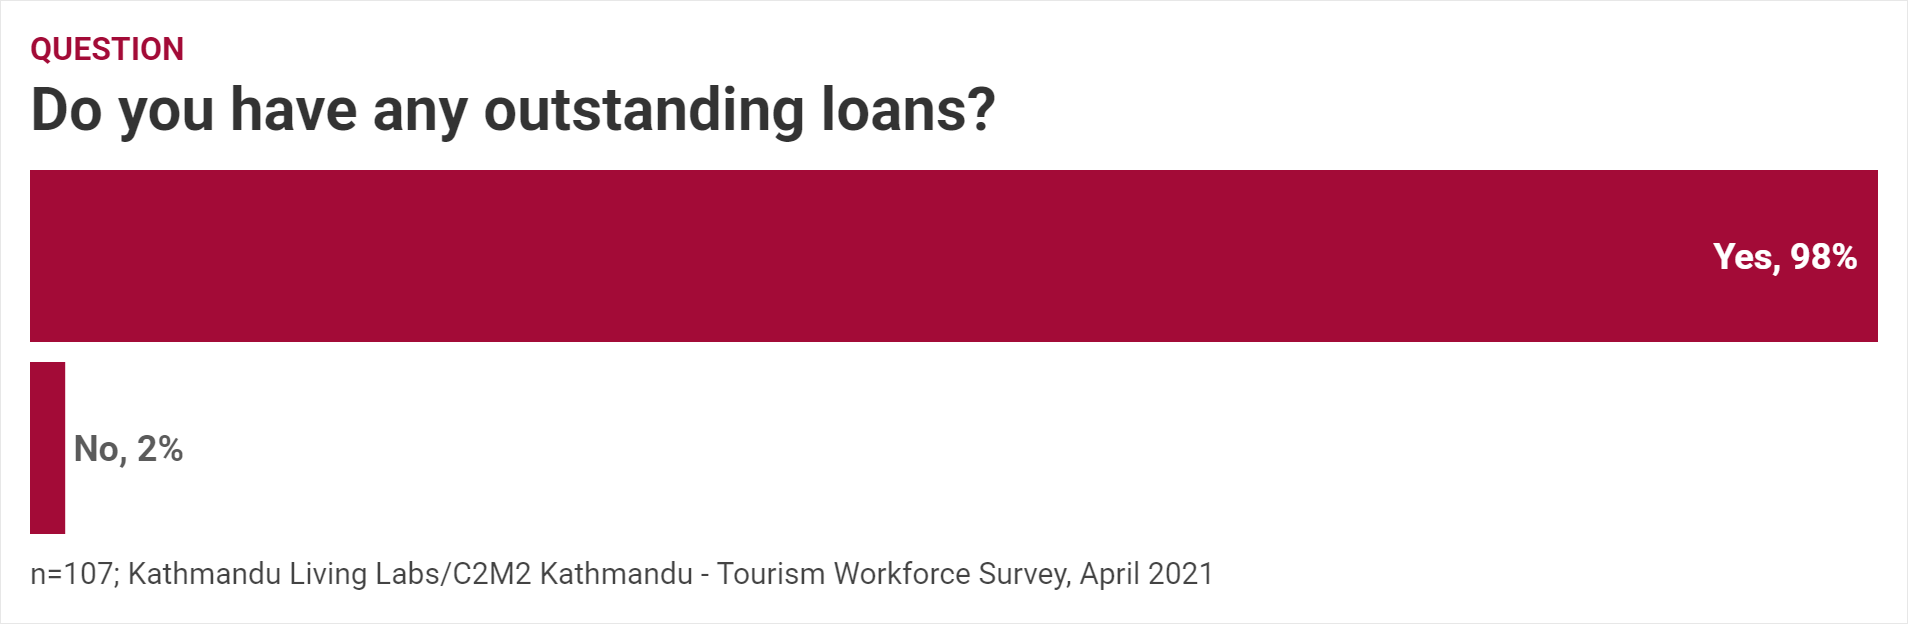
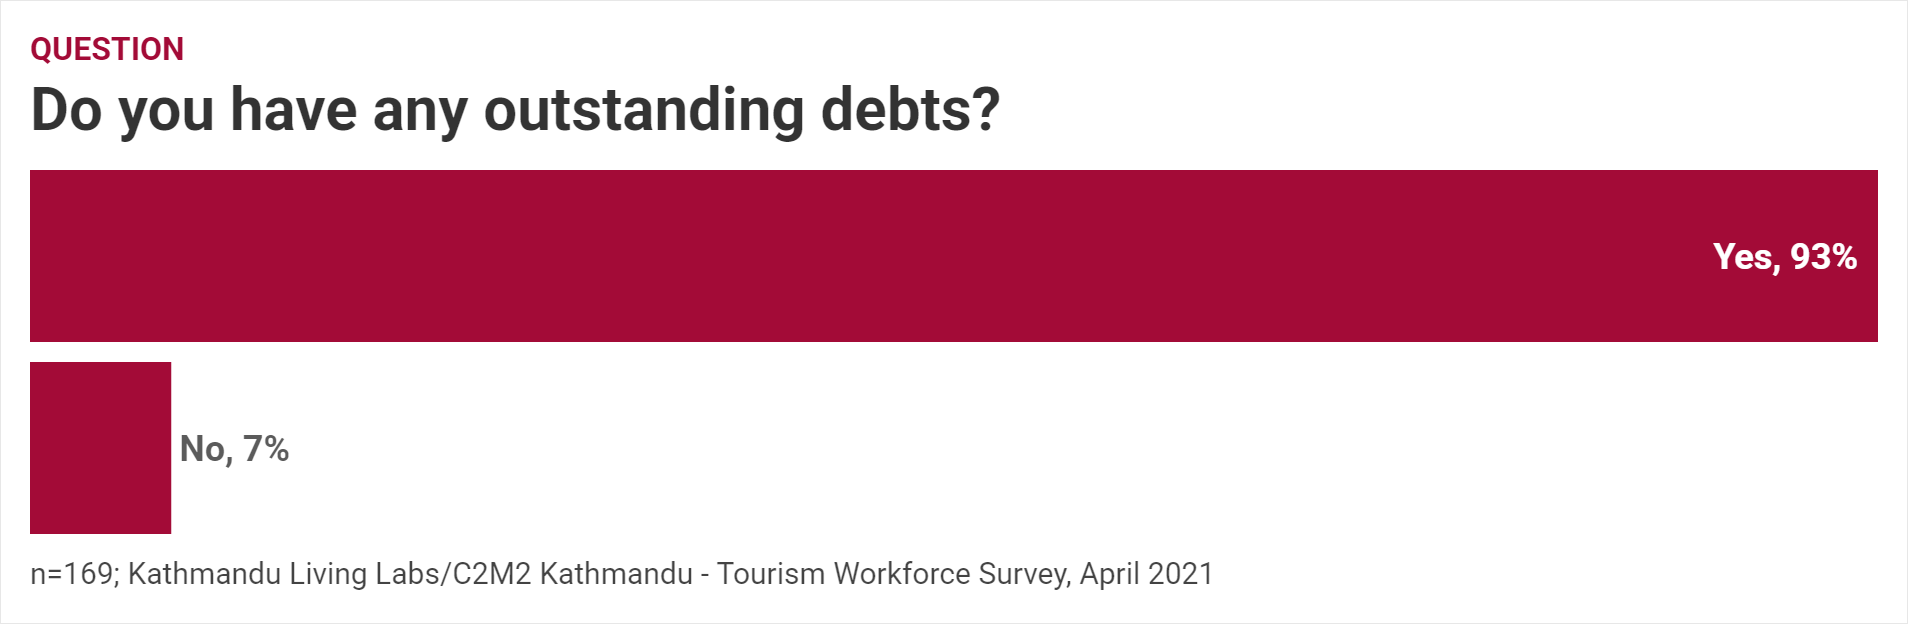
Updated data and numbers in economic analyis

Changed region(s): [[0.0309, 0.5785, 0.1546, 0.8526], [0.4329, 0.1218, 0.5257, 0.2131], [0.0309, 0.883, 0.0618, 0.9439]]

diff --git a/docs/articles/21/economic-impact.html b/docs/articles/21/economic-impact.html
@@ -6,7 +6,7 @@
   <meta name="viewport" content="width=device-width, initial-scale=1">
 
   <title>COVID 19 and its impact on Nepalese Tourism</title>
-  <meta name="description" content="This document is at a very early stage and is undergoing lots of changes. At this stage, data and text shown are not verified and therefore cannot be trusted...">
+  <meta name="description" content="This document is at a very early stage and is undergoing lots of changes. Data and text below have not been verified and therefore cannot be trusted.In this ...">
 
   <!-- Google Fonts loaded here depending on setting in _data/options.yml true loads font, blank does not-->
   
@@ -87,24 +87,36 @@
 <p class="subtitle">April 27, 2021</p>
 
 <div class="post">
-    <p><span style="color:red;">This document is at a very early stage and is undergoing lots of changes. At this stage, data and text shown are not verified and therefore cannot be trusted.</span></p>
+    <p><span style="color:red;">This document is at a very early stage and is undergoing lots of changes. Data and text below have not been verified and therefore cannot be trusted.</span></p>
 
-<p>In this section, we look at the economic impact that the Covid-19 pandemic has had on the Nepali tourism workforce. Insights shown below have been derived from the responses of 107 participants who took part in the C2M2 Workforce survey.</p>
+<p>In this section, we look at the economic impact that the Covid-19 pandemic has had on the Nepali tourism workforce. Insights shown below have been derived from the responses of 169 participants who took part in the C2M2 Workforce survey.</p>
 
-<h3 id="still-looking-for-jobs">STILL LOOKING FOR JOBS</h3>
-<p>Around 90% of our respndents reported losing their job at least once during the pandemic. While a very small proportion of these workers have been successful in gaining employment, a sizable majority are still without jobs and currently looking for economic opportunities.</p>
+<h3 id="still-searching">STILL SEARCHING</h3>
+<p>More than 80% of our respndents reported losing their job at least once during the pandemic. While a little more than one-sixth of our workers have been successful in gaining employment, a sizable majority (65%) are still without jobs and currently looking for economic opportunities (see graph below).</p>
 
 <figure><img src="/kathmandu-interim-report/assets/img/charts/LostJobsSplit.png" /><figcaption class="maincolumn-figure">Note: The group &#8220;working now&#8221; <strong>also includes</strong> those who are presently working in sectors other than tourism, but are interested in re-entering the tourism sector.</figcaption></figure>
 
+<!-- ### income > vocation
+
+<figure><img src='/kathmandu-interim-report/assets/img/charts/PresentlyEmployedOccupationSplit.png'/><figcaption class='maincolumn-figure'></figcaption></figure> -->
+
 <h3 id="pay-cuts-the-new-normal">PAY CUTS: THE New NORMAL?</h3>
-<p>Even with those lucky few people who have managed to hold on to their jobs (10%, see chart below) throughout the pandemic, living with a pay cut has become a harsh reality.</p>
 
-<figure><img src="/kathmandu-interim-report/assets/img/charts/StayedEmployedSplit.png" /><figcaption class="maincolumn-figure">It is worth mentioning at this point that most of our respondents work as trekking and/or mountain guides. This should explain why most were not able to hold on to their jobs, as most guides are hired by tourists. See <a>survey demographics</a></figcaption></figure>
+<p>What’s worrying is that nearly 60% of folks who are presently employed work at reduced income levels.</p>
+<figure><img src="/kathmandu-interim-report/assets/img/charts/PresentlyEmployedSalaryCutSplit.png" /><figcaption class="maincolumn-figure"></figcaption></figure>
 
-<p>Around 91% of our respondents reported that earnings haven’t gotten back to pre-covid levels. To make matters worse, 80% of our respondents reported not seeing their earnings return to pre-covid levels for more than a year now (see graph below).</p>
+<p>It’s also worth exploring how income losses vary between a) those who managed retain their employment status throughout the pandemic vs. b) those who lost their jobs once, but managed to find employment again. For reference, here’s what the split looks like graphically.</p>
 
-<figure><img src="/kathmandu-interim-report/assets/img/charts/LastDateFullSalaryDist2.png" /><figcaption class="maincolumn-figure">Note: This charts contains responses from <strong>all</strong> of our respondents.</figcaption></figure>
+<figure><img src="/kathmandu-interim-report/assets/img/charts/PresentlyEmployedEmplStatusSplit.png" /><figcaption class="maincolumn-figure"></figcaption></figure>
 
+<p>Looks like a fifty-fifty split. Now, on to income losses. It appears, pay cuts are more common for employees who valued job security. Only 3% who remained employed all through the pandemic have managed to retain their pre-pandemic incomes.</p>
+
+<figure><img src="/kathmandu-interim-report/assets/img/charts/StayedEmployedSplit.png" /><figcaption class="maincolumn-figure"></figcaption></figure>
+
+<h4 id="a-year-of-reduced-income">A Year of reduced income</h4>
+<p>In total, 63% of our workers who are currently employed have reported not seeing their earnings return to pre-covid levels for more than a year now (see graph below).</p>
+
+<figure><img src="/kathmandu-interim-report/assets/img/charts/LastDateFullSalaryDist2.png" /><figcaption class="maincolumn-figure">Note: This chart contains responses from <strong>only those respondents who are presently employed</strong>. <br /> <br /> To be intepreted as: 63% of workers who are presently employed have not seen their salaries return to pre-covid levels since &#8220;Before March 2020&#8221;</figcaption></figure>
 <p>It appears the situation is going to get even more difficult with the second wave approaching.</p>
 
 <h3 id="dealing-with-the-financial-impact">Dealing with the financial impact</h3>
@@ -119,25 +131,27 @@
 
 <h4 id="selling-assets-household-items-are-the-first-to-go">SELLING ASSETS: Household items are the first to go</h4>
 
-<p>Around one in every five respondents has had to do away with some of their household assets. Thankfully, only a few of our respondents have had to sell professional equipment (7%) or land and property (7%) so far.</p>
+<p>Around one in every four respondents had to do away with some of their personal or household assets. Thankfully, only a few of our respondents have had to sell professional equipment (7%) or land and property (7%) so far.</p>
 
 <figure><img src="/kathmandu-interim-report/assets/img/charts/SoldStuffMultiples.png" /><figcaption class="maincolumn-figure"></figcaption></figure>
 
 <h4 id="borrowing-money-friends-and-family-to-the-rescue">BORROWING MONEY: Friends and family to the rescue</h4>
 
-<p>Our in-person interviews revealed that workers in the tourism sector shy away from borrowing though financial institutions. The reason is that they lack property, real-estate, or other assets that can be provided as collateral. And indeed, our survey results also seem to corroborate with this idea, with nearly three-quarters (75%) of our srespondents admit to borrowing exclusively from friends and family.</p>
+<p>Our in-person interviews revealed that workers in the tourism sector shy away from borrowing though financial institutions. The reason is that they lack property, real-estate, or other assets that can be provided as collateral. And indeed, our survey results also seem to corroborate with this idea, with more than three-fifths (64%) of our srespondents admit to borrowing exclusively from friends and family.</p>
 
 <figure><img src="/kathmandu-interim-report/assets/img/charts/BorrowingSplit.png" /><figcaption class="maincolumn-figure"></figcaption></figure>
 
-<p>The situation is worsened by the fact that at present, nearly all (98%) of our respondents report that they are in some form of debt.</p>
+<p>The situation is worsened by the fact that at present, nearly all (93%) of our respondents report that they are in some form of debt.</p>
 <figure><img src="/kathmandu-interim-report/assets/img/charts/LoanExposure.png" /><figcaption class="maincolumn-figure"></figcaption></figure>
 
-<p>Unfortunately, it appears being in debt is now part of the new normal.</p>
+<p>Unfortunately, being in debt – as our data shows – is a very real possibility in the “new normal”.</p>
 
-<h3 id="financial-challenges-in-the-next-six-months">financial challenges in the next six months</h3>
+<h3 id="the-next-six-months">the next six months</h3>
+
+<p>Unsurprisingly – and rather unfortunately – immediate priorities of workers in the tourism industry seem to echo those of our ancestors in the stone age: food and shelter. The Covid-19 pandemic has really take a big economic toll on individuals. With reduced savings, few options for borrowing, and increasing debt, the situation of the tourism labour seems very fragile. Who knows what’s going to happen with a second wave approaching.</p>
 
 <figure><img src="/kathmandu-interim-report/assets/img/charts/NextSixMonthsChallengesRnk1Dist.png" /><figcaption class="maincolumn-figure"></figcaption></figure>
-<figure><img src="/kathmandu-interim-report/assets/img/charts/NextSixMonthsChallengesMultiples.png" /><figcaption class="maincolumn-figure"></figcaption></figure>
+<!-- <figure><img src='/kathmandu-interim-report/assets/img/charts/NextSixMonthsChallengesMultiples.png'/><figcaption class='maincolumn-figure'></figcaption></figure> -->
 
 </div>
 

diff --git a/docs/index.html b/docs/index.html
@@ -89,7 +89,7 @@
           <!-- <hr class="slender"> -->
           <a href="/kathmandu-interim-report/articles/21/economic-impact"><h2 class="contrast">COVID 19 and its impact on Nepalese Tourism</h2></a>
           <br><span class="smaller">April 27, 2021</span>  <br/>
-          <div style="max-width:60vw">This document is at a very early stage and is undergoing lots of changes. At this stage, data and...</div> 
+          <div style="max-width:60vw">This document is at a very early stage and is undergoing lots of changes. Data and text below hav...</div> 
         </li>
     
   <!-- </ul> -->

diff --git a/_posts/2020-04-27-economic-impact.md b/_posts/2020-04-27-economic-impact.md
@@ -5,25 +5,39 @@ date:   2021-04-27 09:46:04
 categories: jekyll css
 ---
 
-<span style="color:red;">This document is at a very early stage and is undergoing lots of changes. At this stage, data and text shown are not verified and therefore cannot be trusted.</span>
+<span style="color:red;">This document is at a very early stage and is undergoing lots of changes. Data and text below have not been verified and therefore cannot be trusted.</span>
 
-In this section, we look at the economic impact that the Covid-19 pandemic has had on the Nepali tourism workforce. Insights shown below have been derived from the responses of 107 participants who took part in the C2M2 Workforce survey.
+In this section, we look at the economic impact that the Covid-19 pandemic has had on the Nepali tourism workforce. Insights shown below have been derived from the responses of 169 participants who took part in the C2M2 Workforce survey.
 
-### STILL LOOKING FOR JOBS
-Around 90% of our respndents reported losing their job at least once during the pandemic. While a very small proportion of these workers have been successful in gaining employment, a sizable majority are still without jobs and currently looking for economic opportunities.
+### STILL SEARCHING
+More than 80% of our respndents reported losing their job at least once during the pandemic. While a little more than one-sixth of our workers have been successful in gaining employment, a sizable majority (65%) are still without jobs and currently looking for economic opportunities (see graph below).
 
 {% maincolumn 'assets/img/charts/LostJobsSplit.png' 'Note: The group "working now" **also includes** those who are presently working in sectors other than tourism, but are interested in re-entering the tourism sector.' %}
 
+<!-- ### income > vocation
+
+{% maincolumn 'assets/img/charts/PresentlyEmployedOccupationSplit.png' '' %} -->
+
+
 ### PAY CUTS: THE New NORMAL?
-Even with those lucky few people who have managed to hold on to their jobs (10%, see chart below) throughout the pandemic, living with a pay cut has become a harsh reality.
-
-{% maincolumn 'assets/img/charts/StayedEmployedSplit.png' 'It is worth mentioning at this point that most of our respondents work as trekking and/or mountain guides. This should explain why most were not able to hold on to their jobs, as most guides are hired by tourists. See <a>survey demographics</a>' %}
 
 
-Around 91% of our respondents reported that earnings haven't gotten back to pre-covid levels. To make matters worse, 80% of our respondents reported not seeing their earnings return to pre-covid levels for more than a year now (see graph below).
 
-{% maincolumn 'assets/img/charts/LastDateFullSalaryDist2.png' 'Note: This charts contains responses from **all** of our respondents.' %}
+What's worrying is that nearly 60% of folks who are presently employed work at reduced income levels.
+{% maincolumn 'assets/img/charts/PresentlyEmployedSalaryCutSplit.png' '' %}
 
+It's also worth exploring how income losses vary between a) those who managed retain their employment status throughout the pandemic vs. b) those who lost their jobs once, but managed to find employment again. For reference, here's what the split looks like graphically. 
+
+{% maincolumn 'assets/img/charts/PresentlyEmployedEmplStatusSplit.png' '' %}
+
+Looks like a fifty-fifty split. Now, on to income losses. It appears, pay cuts are more common for employees who valued job security. Only 3% who remained employed all through the pandemic have managed to retain their pre-pandemic incomes. 
+
+{% maincolumn 'assets/img/charts/StayedEmployedSplit.png' '' %}
+
+#### A Year of reduced income
+In total, 63% of our workers who are currently employed have reported not seeing their earnings return to pre-covid levels for more than a year now (see graph below).
+
+{% maincolumn 'assets/img/charts/LastDateFullSalaryDist2.png' 'Note: This chart contains responses from **only those respondents who are presently employed**. <br/> <br/> To be intepreted as: 63% of workers who are presently employed have not seen their salaries return to pre-covid levels since "Before March 2020"' %} 
 It appears the situation is going to get even more difficult with the second wave approaching.
 
 
@@ -42,24 +56,26 @@ The indefinite nature of the pandemic has resulted in a situation where many wor
 
 #### SELLING ASSETS: Household items are the first to go
 
-Around one in every five respondents has had to do away with some of their household assets. Thankfully, only a few of our respondents have had to sell professional equipment (7%) or land and property (7%) so far.
+Around one in every four respondents had to do away with some of their personal or household assets. Thankfully, only a few of our respondents have had to sell professional equipment (7%) or land and property (7%) so far.
 
 {% maincolumn 'assets/img/charts/SoldStuffMultiples.png' '' %}
 
 
 #### BORROWING MONEY: Friends and family to the rescue
 
-Our in-person interviews revealed that workers in the tourism sector shy away from borrowing though financial institutions. The reason is that they lack property, real-estate, or other assets that can be provided as collateral. And indeed, our survey results also seem to corroborate with this idea, with nearly three-quarters (75%) of our srespondents admit to borrowing exclusively from friends and family. 
+Our in-person interviews revealed that workers in the tourism sector shy away from borrowing though financial institutions. The reason is that they lack property, real-estate, or other assets that can be provided as collateral. And indeed, our survey results also seem to corroborate with this idea, with more than three-fifths (64%) of our srespondents admit to borrowing exclusively from friends and family. 
 
 {% maincolumn 'assets/img/charts/BorrowingSplit.png' '' %}
 
-The situation is worsened by the fact that at present, nearly all (98%) of our respondents report that they are in some form of debt.
+The situation is worsened by the fact that at present, nearly all (93%) of our respondents report that they are in some form of debt.
 {% maincolumn 'assets/img/charts/LoanExposure.png' '' %}
 
-Unfortunately, it appears being in debt is now part of the new normal.
+Unfortunately, being in debt -- as our data shows -- is a very real possibility in the "new normal".
 
 
-### financial challenges in the next six months
+### the next six months
+
+Unsurprisingly -- and rather unfortunately -- immediate priorities of workers in the tourism industry seem to echo those of our ancestors in the stone age: food and shelter. The Covid-19 pandemic has really take a big economic toll on individuals. With reduced savings, few options for borrowing, and increasing debt, the situation of the tourism labour seems very fragile. Who knows what's going to happen with a second wave approaching. 
 
 {% maincolumn 'assets/img/charts/NextSixMonthsChallengesRnk1Dist.png' '' %}
-{% maincolumn 'assets/img/charts/NextSixMonthsChallengesMultiples.png' '' %}
+<!-- {% maincolumn 'assets/img/charts/NextSixMonthsChallengesMultiples.png' '' %} -->
